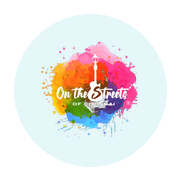
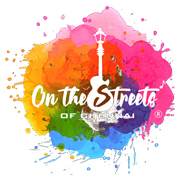
Add files via upload

diff --git a/index.html b/index.html
@@ -6,9 +6,10 @@
   <meta name="theme-color" content="#111426">
   <meta name="description" content="MUSIC SCHOOL OTS guided 12-week music learning app">
   <title>MUSIC SCHOOL OTS</title>
-  <link rel="icon" type="image/png" sizes="32x32" href="favicon-32x32.png">
-  <link rel="icon" type="image/png" sizes="16x16" href="favicon-16x16.png">
-  <link rel="apple-touch-icon" sizes="180x180" href="apple-touch-icon.png">
+  <link rel="icon" type="image/png" sizes="48x48" href="favicon-48x48.png?v=37">
+  <link rel="icon" type="image/png" sizes="32x32" href="favicon-32x32.png?v=37">
+  <link rel="icon" type="image/png" sizes="16x16" href="favicon-16x16.png?v=37">
+  <link rel="apple-touch-icon" sizes="180x180" href="apple-touch-icon.png?v=37">
   <link rel="manifest" href="manifest.webmanifest">
   <link rel="stylesheet" href="styles.css">
 </head>
@@ -80,7 +81,9 @@
   <div class="app-shell" id="app-shell" inert aria-hidden="true">
     <aside class="sidebar">
       <div class="brand-lockup sidebar-brand">
-        <span class="brand-mark"><img src="brand-logo-transparent.png" alt="On The Streets"></span>
+        <button class="brand-home-button" type="button" data-view="home" aria-label="Go to Home">
+          <span class="brand-mark"><img src="brand-logo-transparent.png" alt="On The Streets"></span>
+        </button>
         <span>
           <strong>MUSIC SCHOOL</strong>
           <small>12-week guided course</small>
@@ -122,7 +125,9 @@
     <div class="main-column">
       <header class="topbar">
         <div class="mobile-brand">
-          <span class="brand-mark"><img src="brand-logo-transparent.png" alt="On The Streets"></span>
+          <button class="brand-home-button" type="button" data-view="home" aria-label="Go to Home">
+            <span class="brand-mark"><img src="brand-logo-transparent.png" alt="On The Streets"></span>
+          </button>
           <strong>MUSIC SCHOOL</strong>
         </div>
         <div class="topbar-copy">

diff --git a/admin/index.html b/admin/index.html
@@ -5,9 +5,10 @@
   <meta name="viewport" content="width=device-width, initial-scale=1">
   <meta name="theme-color" content="#111426">
   <title>OTS Admin | Student Analysis</title>
-  <link rel="icon" type="image/png" sizes="32x32" href="../favicon-32x32.png">
-  <link rel="icon" type="image/png" sizes="16x16" href="../favicon-16x16.png">
-  <link rel="apple-touch-icon" sizes="180x180" href="../apple-touch-icon.png">
+  <link rel="icon" type="image/png" sizes="48x48" href="../favicon-48x48.png?v=37">
+  <link rel="icon" type="image/png" sizes="32x32" href="../favicon-32x32.png?v=37">
+  <link rel="icon" type="image/png" sizes="16x16" href="../favicon-16x16.png?v=37">
+  <link rel="apple-touch-icon" sizes="180x180" href="../apple-touch-icon.png?v=37">
   <link rel="manifest" href="../manifest.webmanifest">
   <link rel="stylesheet" href="admin.css">
 </head>
@@ -15,7 +16,9 @@
   <div class="admin-login" id="admin-login">
     <section class="login-card">
       <div class="admin-brand">
-        <span class="brand-mark"><img src="../brand-logo-transparent.png" alt="On The Streets"></span>
+        <button class="brand-home-button" id="admin-brand-home" type="button" aria-label="Go to Dashboard">
+          <span class="brand-mark"><img src="../brand-logo-transparent.png" alt="On The Streets"></span>
+        </button>
         <span>
           <strong>MUSIC SCHOOL</strong>
           <small>Academic operations</small>
@@ -112,7 +115,7 @@
             <strong id="admin-user-name">OTS Admin</strong>
             <small id="admin-user-role">Super admin</small>
           </div>
-          <span class="admin-avatar" id="admin-avatar">OA</span>
+          <button class="admin-avatar" id="admin-avatar" type="button" aria-label="Go to Dashboard">OA</button>
           <button class="logout-button" id="logout-button">Sign out</button>
         </div>
       </header>

diff --git a/admin.html b/admin.html
@@ -5,9 +5,10 @@
   <meta name="viewport" content="width=device-width, initial-scale=1">
   <meta name="theme-color" content="#111426">
   <title>OTS Admin | Student Analysis</title>
-  <link rel="icon" type="image/png" sizes="32x32" href="/favicon-32x32.png">
-  <link rel="icon" type="image/png" sizes="16x16" href="/favicon-16x16.png">
-  <link rel="apple-touch-icon" sizes="180x180" href="/apple-touch-icon.png">
+  <link rel="icon" type="image/png" sizes="48x48" href="/favicon-48x48.png?v=37">
+  <link rel="icon" type="image/png" sizes="32x32" href="/favicon-32x32.png?v=37">
+  <link rel="icon" type="image/png" sizes="16x16" href="/favicon-16x16.png?v=37">
+  <link rel="apple-touch-icon" sizes="180x180" href="/apple-touch-icon.png?v=37">
   <link rel="manifest" href="/manifest.webmanifest">
   <link rel="stylesheet" href="/admin.css">
 </head>
@@ -15,7 +16,9 @@
   <div class="admin-login" id="admin-login">
     <section class="login-card">
       <div class="admin-brand">
-        <span class="brand-mark"><img src="brand-logo-transparent.png" alt="On The Streets"></span>
+        <button class="brand-home-button" id="admin-brand-home" type="button" aria-label="Go to Dashboard">
+          <span class="brand-mark"><img src="brand-logo-transparent.png" alt="On The Streets"></span>
+        </button>
         <span>
           <strong>MUSIC SCHOOL</strong>
           <small>Academic operations</small>
@@ -112,7 +115,7 @@
             <strong id="admin-user-name">OTS Admin</strong>
             <small id="admin-user-role">Super admin</small>
           </div>
-          <span class="admin-avatar" id="admin-avatar">OA</span>
+          <button class="admin-avatar" id="admin-avatar" type="button" aria-label="Go to Dashboard">OA</button>
           <button class="logout-button" id="logout-button">Sign out</button>
         </div>
       </header>

diff --git a/admin.js b/admin.js
@@ -1178,6 +1178,9 @@ function bindEvents() {
     button.addEventListener("click", () => navigateAdmin(button.dataset.adminView));
   });
 
+  document.querySelector("#admin-brand-home")?.addEventListener("click", () => navigateAdmin("dashboard"));
+  document.querySelector("#admin-avatar")?.addEventListener("click", () => navigateAdmin("dashboard"));
+
   document.querySelector("#refresh-dashboard").addEventListener("click", async () => {
     await loadDashboard();
     showToast("Dashboard refreshed.");
@@ -1269,8 +1272,10 @@ function renderAdminUser() {
   if (!adminUser) return;
   document.querySelector("#admin-user-name").textContent = adminUser.name;
   document.querySelector("#admin-user-role").textContent = adminUser.role.replaceAll("_", " ");
-  document.querySelector("#admin-avatar").innerHTML = `<img src="${assetUrl("brand-logo-transparent.png")}" alt="On The Streets">`;
-  document.querySelector("#admin-avatar").title = initials(adminUser.name);
+  const avatar = document.querySelector("#admin-avatar");
+  avatar.innerHTML = `<img src="${assetUrl("brand-logo-transparent.png")}" alt="On The Streets">`;
+  avatar.title = `${initials(adminUser.name)} - go to Dashboard`;
+  avatar.classList.add("has-logo");
   document.querySelector("#open-create-student").hidden = adminUser.role === "teacher";
   document.querySelector("#staff-nav-item").hidden = adminUser.role !== "super_admin";
   document.querySelector(".admin-brand small").textContent = adminUser.role === "teacher"

diff --git a/admin/admin.js b/admin/admin.js
@@ -1178,6 +1178,9 @@ function bindEvents() {
     button.addEventListener("click", () => navigateAdmin(button.dataset.adminView));
   });
 
+  document.querySelector("#admin-brand-home")?.addEventListener("click", () => navigateAdmin("dashboard"));
+  document.querySelector("#admin-avatar")?.addEventListener("click", () => navigateAdmin("dashboard"));
+
   document.querySelector("#refresh-dashboard").addEventListener("click", async () => {
     await loadDashboard();
     showToast("Dashboard refreshed.");
@@ -1269,8 +1272,10 @@ function renderAdminUser() {
   if (!adminUser) return;
   document.querySelector("#admin-user-name").textContent = adminUser.name;
   document.querySelector("#admin-user-role").textContent = adminUser.role.replaceAll("_", " ");
-  document.querySelector("#admin-avatar").innerHTML = `<img src="${assetUrl("brand-logo-transparent.png")}" alt="On The Streets">`;
-  document.querySelector("#admin-avatar").title = initials(adminUser.name);
+  const avatar = document.querySelector("#admin-avatar");
+  avatar.innerHTML = `<img src="${assetUrl("brand-logo-transparent.png")}" alt="On The Streets">`;
+  avatar.title = `${initials(adminUser.name)} - go to Dashboard`;
+  avatar.classList.add("has-logo");
   document.querySelector("#open-create-student").hidden = adminUser.role === "teacher";
   document.querySelector("#staff-nav-item").hidden = adminUser.role !== "super_admin";
   document.querySelector(".admin-brand small").textContent = adminUser.role === "teacher"

diff --git a/admin.css b/admin.css
@@ -109,6 +109,22 @@ button {
   object-fit: contain;
 }
 
+.brand-home-button {
+  display: grid;
+  flex: 0 0 auto;
+  padding: 0;
+  border: 0;
+  outline: 0;
+  background: transparent;
+  cursor: pointer;
+}
+
+.brand-home-button:focus-visible,
+.admin-avatar:focus-visible {
+  border-radius: 10px;
+  box-shadow: 0 0 0 3px rgba(245, 119, 161, 0.45);
+}
+
 .login-copy {
   margin: 36px 0 26px;
 }
@@ -2060,4 +2076,42 @@ textarea:focus {
   .review-page-form {
     padding: 18px 14px 30px;
   }
+}
+
+/* Final logo treatment: show only the transparent artwork. */
+.brand-mark {
+  width: 52px;
+  height: 52px;
+  overflow: visible;
+  border-radius: 0;
+  background: transparent;
+  box-shadow: none;
+}
+
+.brand-mark img {
+  display: block;
+  width: 100%;
+  height: 100%;
+  object-fit: contain;
+}
+
+.admin-avatar {
+  padding: 0;
+  border: 0;
+  cursor: pointer;
+}
+
+.admin-avatar.has-logo {
+  width: 50px;
+  height: 50px;
+  overflow: visible;
+  border-radius: 0;
+  background: transparent;
+  box-shadow: none;
+}
+
+.admin-avatar.has-logo img {
+  width: 100%;
+  height: 100%;
+  object-fit: contain;
 }

diff --git a/admin/admin.css b/admin/admin.css
@@ -109,6 +109,22 @@ button {
   object-fit: contain;
 }
 
+.brand-home-button {
+  display: grid;
+  flex: 0 0 auto;
+  padding: 0;
+  border: 0;
+  outline: 0;
+  background: transparent;
+  cursor: pointer;
+}
+
+.brand-home-button:focus-visible,
+.admin-avatar:focus-visible {
+  border-radius: 10px;
+  box-shadow: 0 0 0 3px rgba(245, 119, 161, 0.45);
+}
+
 .login-copy {
   margin: 36px 0 26px;
 }
@@ -2060,4 +2076,42 @@ textarea:focus {
   .review-page-form {
     padding: 18px 14px 30px;
   }
+}
+
+/* Final logo treatment: show only the transparent artwork. */
+.brand-mark {
+  width: 52px;
+  height: 52px;
+  overflow: visible;
+  border-radius: 0;
+  background: transparent;
+  box-shadow: none;
+}
+
+.brand-mark img {
+  display: block;
+  width: 100%;
+  height: 100%;
+  object-fit: contain;
+}
+
+.admin-avatar {
+  padding: 0;
+  border: 0;
+  cursor: pointer;
+}
+
+.admin-avatar.has-logo {
+  width: 50px;
+  height: 50px;
+  overflow: visible;
+  border-radius: 0;
+  background: transparent;
+  box-shadow: none;
+}
+
+.admin-avatar.has-logo img {
+  width: 100%;
+  height: 100%;
+  object-fit: contain;
 }

diff --git a/styles.css b/styles.css
@@ -249,6 +249,21 @@ button {
   object-fit: contain;
 }
 
+.brand-home-button {
+  display: grid;
+  flex: 0 0 auto;
+  padding: 0;
+  border: 0;
+  outline: 0;
+  background: transparent;
+  cursor: pointer;
+}
+
+.brand-home-button:focus-visible {
+  border-radius: 10px;
+  box-shadow: 0 0 0 3px rgba(245, 119, 161, 0.45);
+}
+
 .sidebar-brand {
   margin-bottom: 42px;
 }
@@ -4387,4 +4402,28 @@ textarea:focus,
   #view-home .hero-orbit {
     min-height: 190px;
   }
+}
+
+/* Final logo treatment: show only the transparent artwork. */
+.brand-mark,
+.button-primary.brand-mark {
+  width: 52px;
+  height: 52px;
+  overflow: visible;
+  border-radius: 0;
+  background: transparent;
+  box-shadow: none;
+}
+
+.brand-mark img {
+  display: block;
+  width: 100%;
+  height: 100%;
+  object-fit: contain;
+}
+
+.mobile-brand .brand-mark {
+  width: 44px;
+  height: 44px;
+  border-radius: 0;
 }

diff --git a/service-worker.js b/service-worker.js
@@ -1,4 +1,4 @@
-const CACHE_NAME = "music-school-ots-v36-week-goals-notes";
+const CACHE_NAME = "music-school-ots-v37-transparent-logo";
 const APP_ASSETS = [
   "./",
   "./index.html",
@@ -7,6 +7,7 @@ const APP_ASSETS = [
   "./manifest.webmanifest",
   "./favicon-16x16.png",
   "./favicon-32x32.png",
+  "./favicon-48x48.png",
   "./apple-touch-icon.png",
   "./icon-192.png",
   "./icon-512.png"
